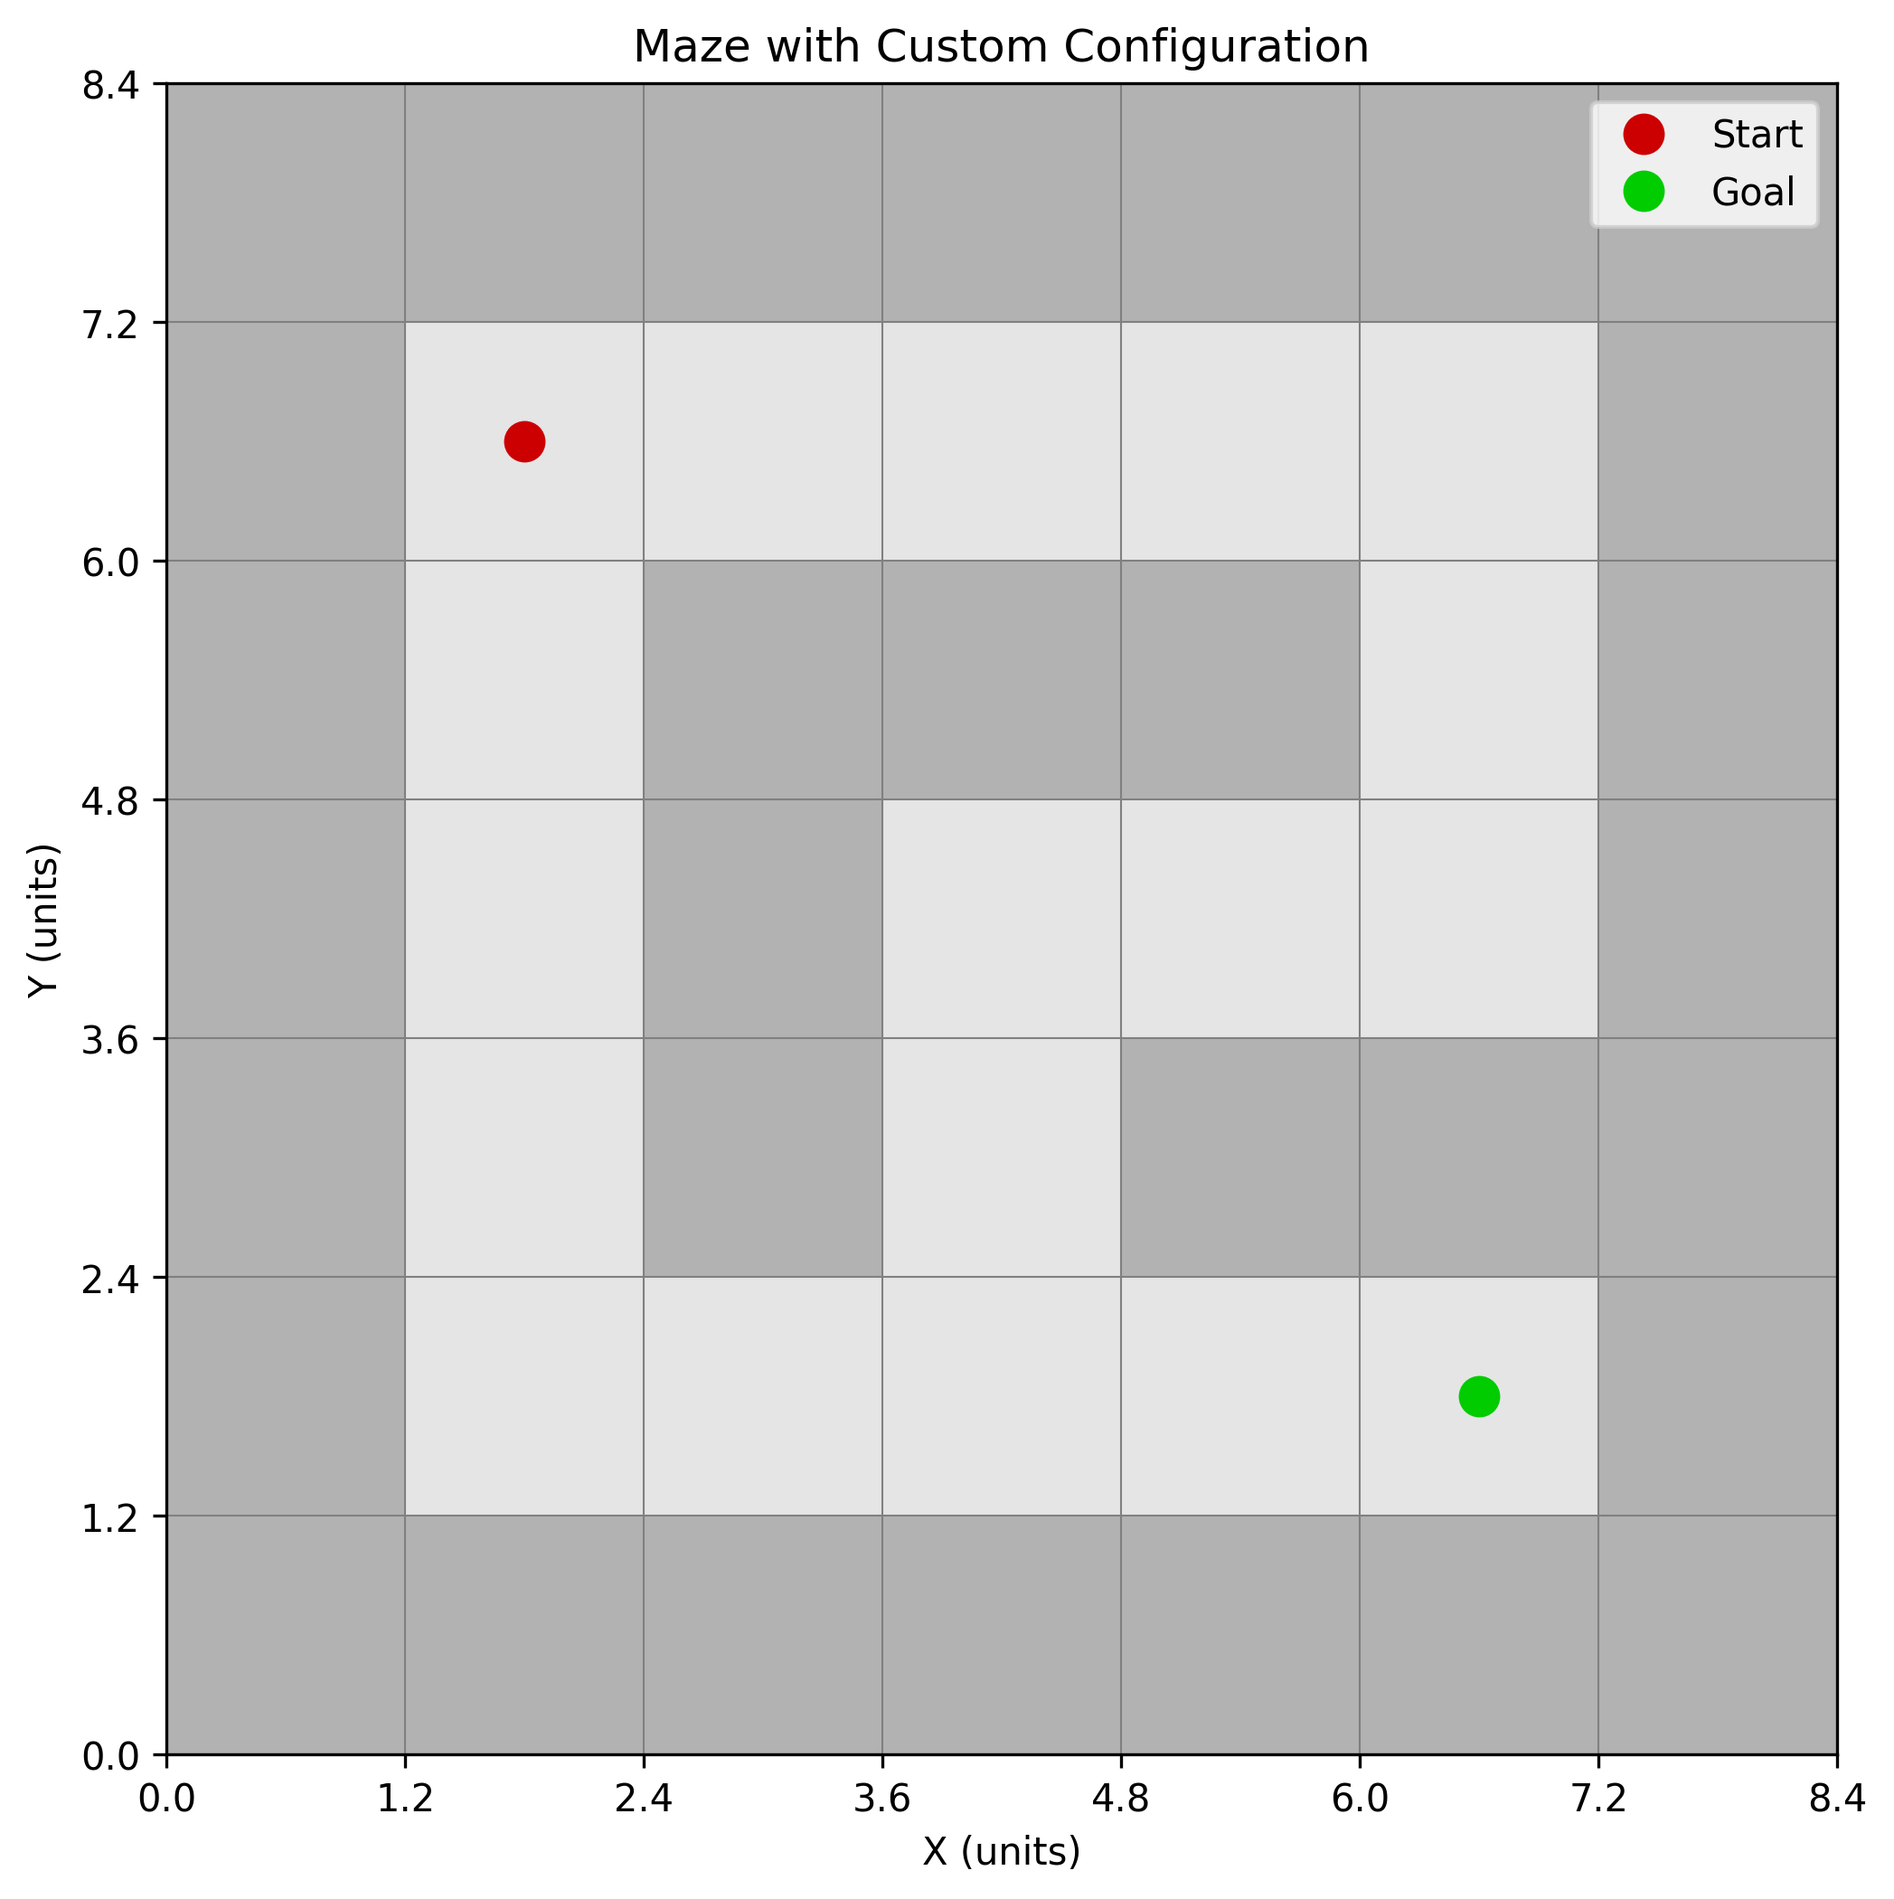
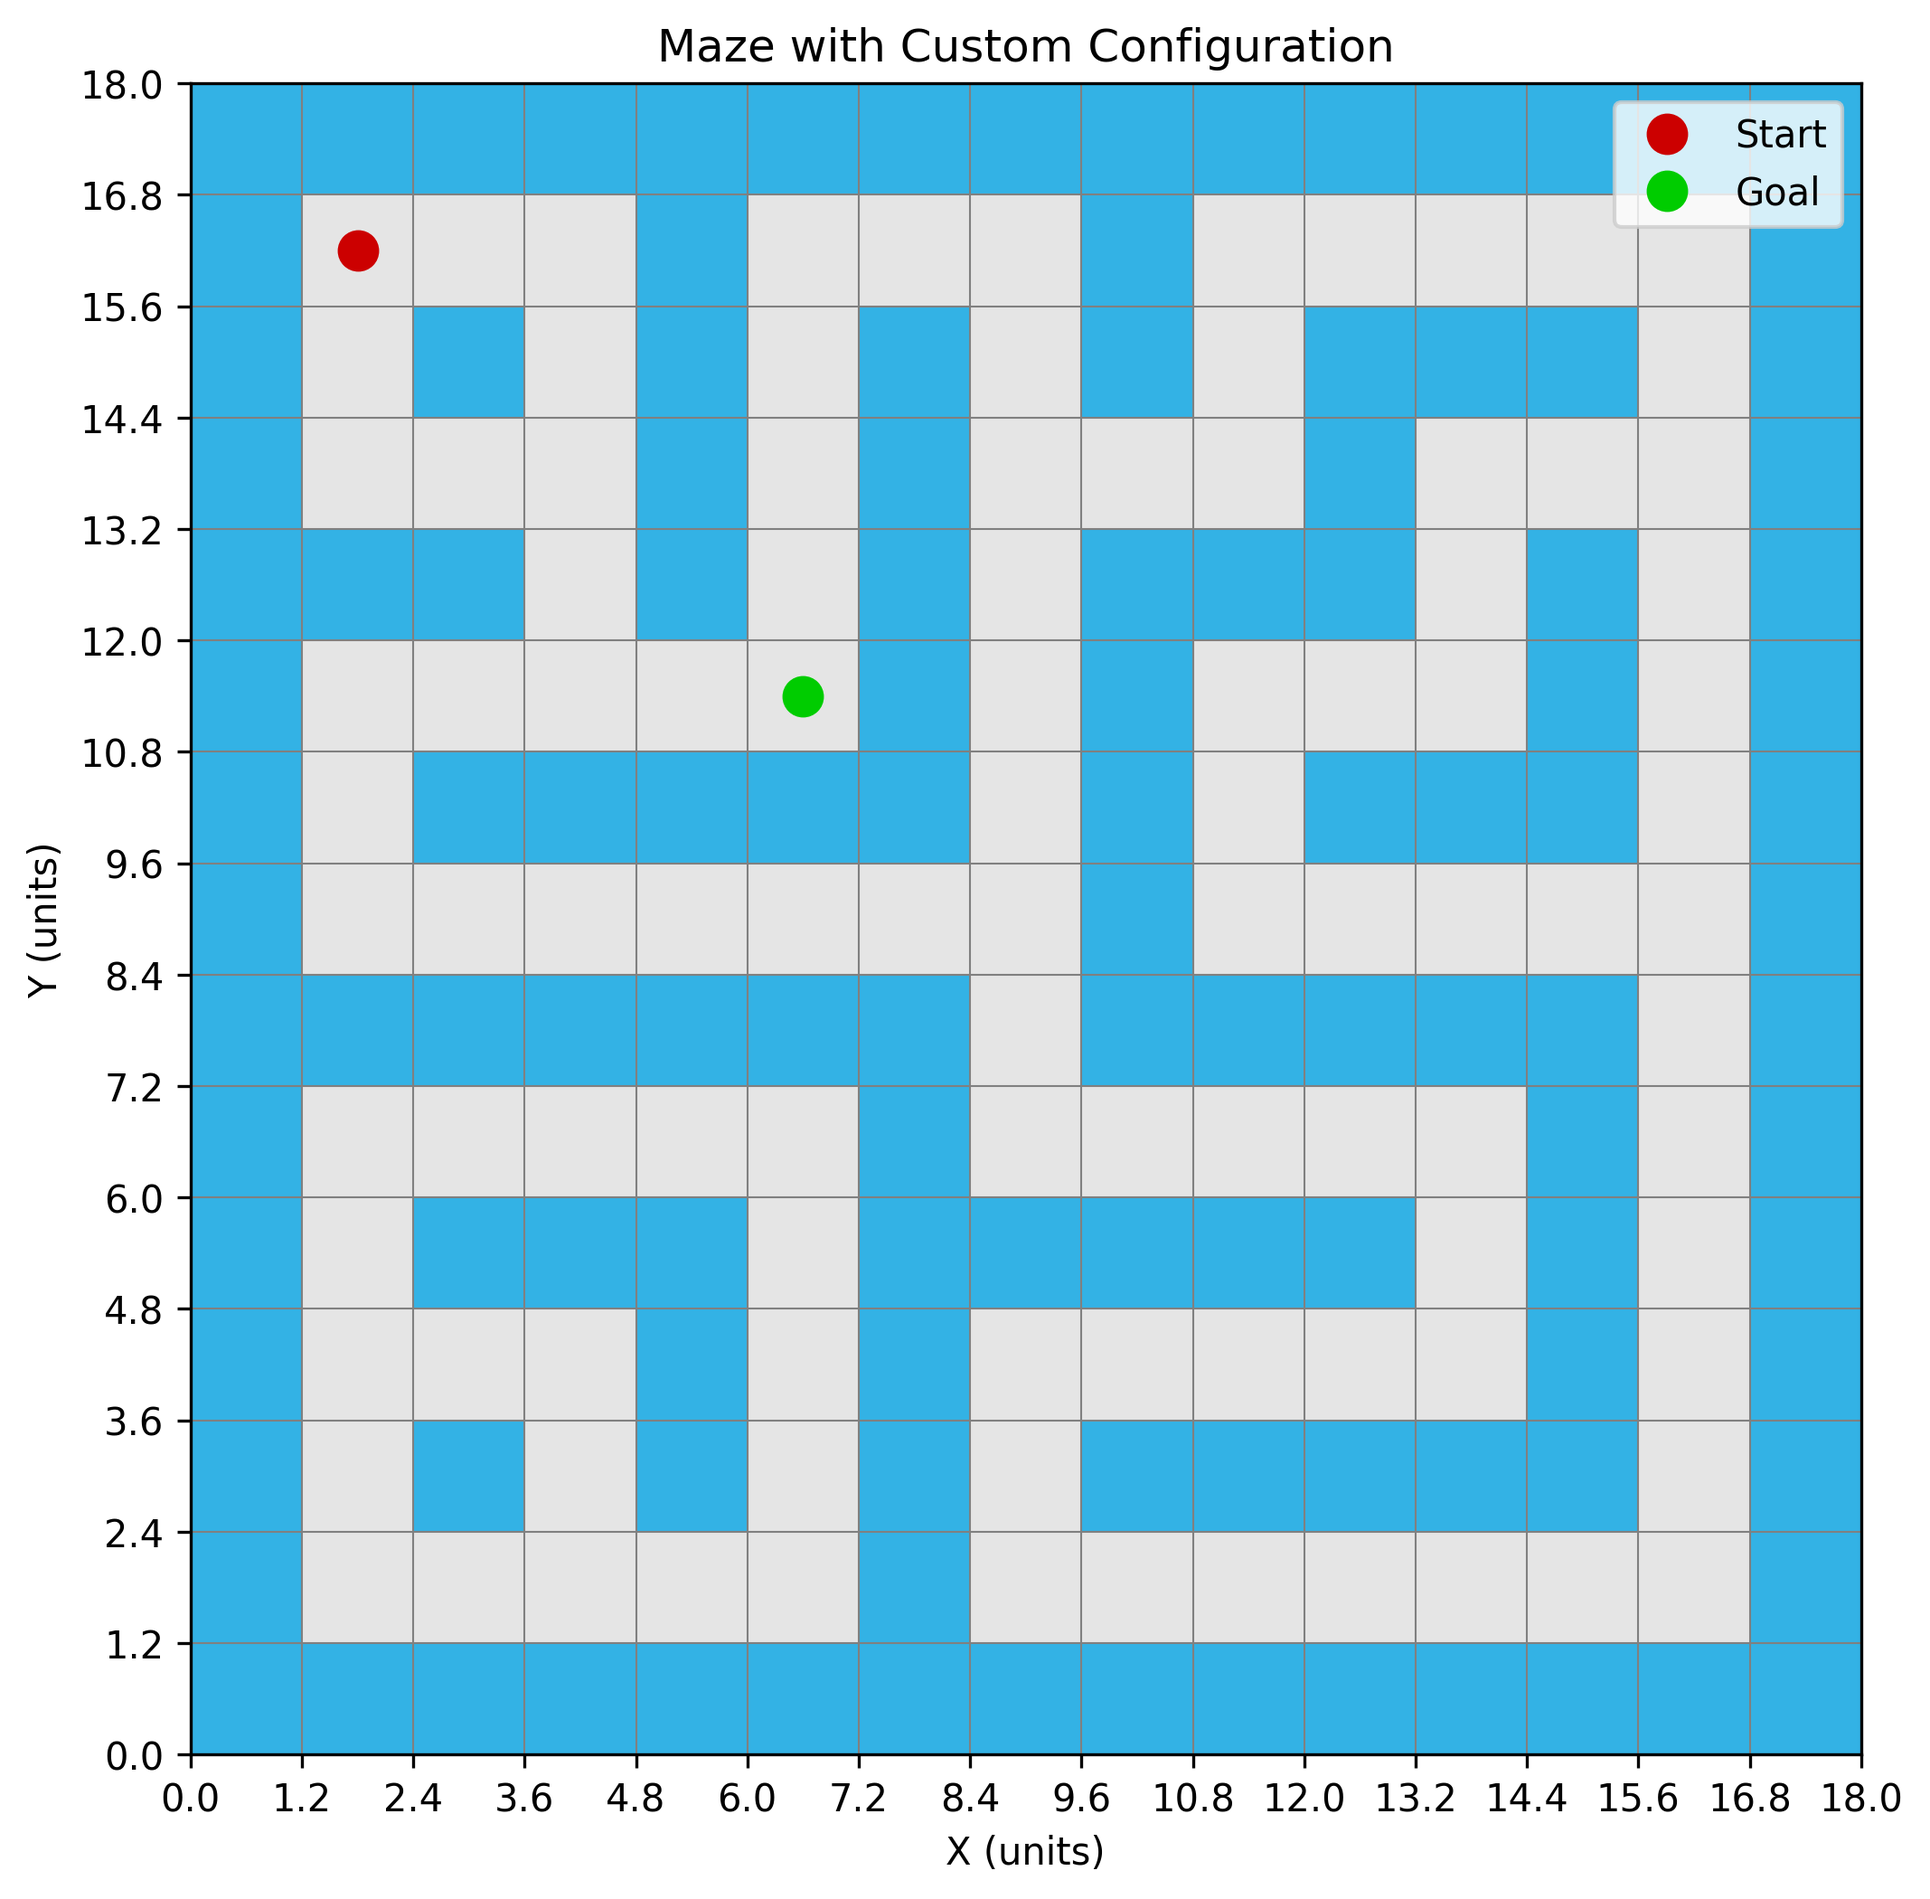
small fix

diff --git a/examples/maze_visualization.py b/examples/maze_visualization.py
@@ -85,16 +85,7 @@ def main():
     maze = bsAntMaze.from_config_file("example_config.json")
     
     # Create a sample maze layout
-    maze_layout = [
-        [1, 1, 1, 1, 1, 1, 1],
-        [1, 0, 0, 0, 0, 0, 1],
-        [1, 0, 1, 1, 1, 0, 1],
-        [1, 0, 1, 0, 0, 0, 1],
-        [1, 0, 1, 0, 1, 1, 1],
-        [1, 0, 0, 0, 0, 0, 1],
-        [1, 1, 1, 1, 1, 1, 1]
-    ]
-    maze.create_maze(maze_layout)
+    maze.build_from_txt("example_maze.txt")
     
     # Set start and goal positions
     maze.set_start_position((1, 1))
